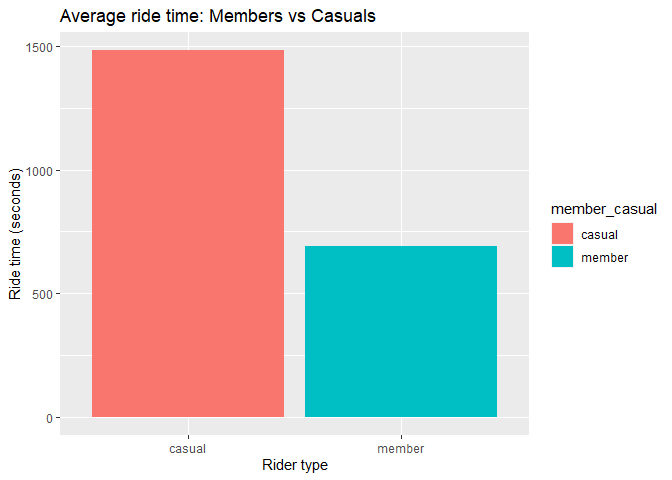
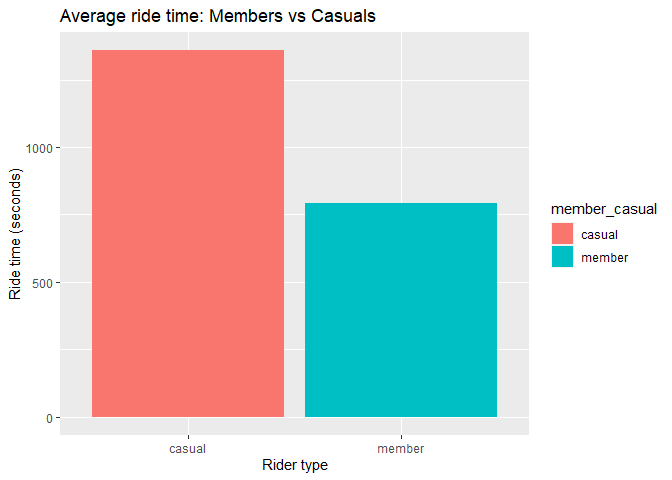
-

diff --git a/google_cap_1.md b/google_cap_1.md
@@ -78,29 +78,7 @@ trip data.
 
 ``` r
 library(tidyverse)
-```
-
-    ## ── Attaching packages ─────────────────────────────────────── tidyverse 1.3.2 ──
-    ## ✔ ggplot2 3.3.6      ✔ purrr   0.3.4 
-    ## ✔ tibble  3.1.8      ✔ dplyr   1.0.10
-    ## ✔ tidyr   1.2.1      ✔ stringr 1.4.1 
-    ## ✔ readr   2.1.2      ✔ forcats 0.5.2 
-    ## ── Conflicts ────────────────────────────────────────── tidyverse_conflicts() ──
-    ## ✖ dplyr::filter() masks stats::filter()
-    ## ✖ dplyr::lag()    masks stats::lag()
-
-``` r
 library(lubridate)
-```
-
-    ## 
-    ## Attaching package: 'lubridate'
-    ## 
-    ## The following objects are masked from 'package:base':
-    ## 
-    ##     date, intersect, setdiff, union
-
-``` r
 library(geosphere)
 library(outliers)
 ```
@@ -108,127 +86,6 @@ library(outliers)
 ``` r
 data_files <- list.files(pattern = "*.csv")
 df_list <- lapply(data_files, read_csv)
-```
-
-    ## Rows: 804352 Columns: 13
-    ## ── Column specification ────────────────────────────────────────────────────────
-    ## Delimiter: ","
-    ## chr  (7): ride_id, rideable_type, start_station_name, start_station_id, end_...
-    ## dbl  (4): start_lat, start_lng, end_lat, end_lng
-    ## dttm (2): started_at, ended_at
-    ## 
-    ## ℹ Use `spec()` to retrieve the full column specification for this data.
-    ## ℹ Specify the column types or set `show_col_types = FALSE` to quiet this message.
-    ## Rows: 756147 Columns: 13
-    ## ── Column specification ────────────────────────────────────────────────────────
-    ## Delimiter: ","
-    ## chr  (7): ride_id, rideable_type, start_station_name, start_station_id, end_...
-    ## dbl  (4): start_lat, start_lng, end_lat, end_lng
-    ## dttm (2): started_at, ended_at
-    ## 
-    ## ℹ Use `spec()` to retrieve the full column specification for this data.
-    ## ℹ Specify the column types or set `show_col_types = FALSE` to quiet this message.
-    ## Rows: 631226 Columns: 13
-    ## ── Column specification ────────────────────────────────────────────────────────
-    ## Delimiter: ","
-    ## chr  (7): ride_id, rideable_type, start_station_name, start_station_id, end_...
-    ## dbl  (4): start_lat, start_lng, end_lat, end_lng
-    ## dttm (2): started_at, ended_at
-    ## 
-    ## ℹ Use `spec()` to retrieve the full column specification for this data.
-    ## ℹ Specify the column types or set `show_col_types = FALSE` to quiet this message.
-    ## Rows: 359978 Columns: 13
-    ## ── Column specification ────────────────────────────────────────────────────────
-    ## Delimiter: ","
-    ## chr  (7): ride_id, rideable_type, start_station_name, start_station_id, end_...
-    ## dbl  (4): start_lat, start_lng, end_lat, end_lng
-    ## dttm (2): started_at, ended_at
-    ## 
-    ## ℹ Use `spec()` to retrieve the full column specification for this data.
-    ## ℹ Specify the column types or set `show_col_types = FALSE` to quiet this message.
-    ## Rows: 247540 Columns: 13
-    ## ── Column specification ────────────────────────────────────────────────────────
-    ## Delimiter: ","
-    ## chr  (7): ride_id, rideable_type, start_station_name, start_station_id, end_...
-    ## dbl  (4): start_lat, start_lng, end_lat, end_lng
-    ## dttm (2): started_at, ended_at
-    ## 
-    ## ℹ Use `spec()` to retrieve the full column specification for this data.
-    ## ℹ Specify the column types or set `show_col_types = FALSE` to quiet this message.
-    ## Rows: 103770 Columns: 13
-    ## ── Column specification ────────────────────────────────────────────────────────
-    ## Delimiter: ","
-    ## chr  (7): ride_id, rideable_type, start_station_name, start_station_id, end_...
-    ## dbl  (4): start_lat, start_lng, end_lat, end_lng
-    ## dttm (2): started_at, ended_at
-    ## 
-    ## ℹ Use `spec()` to retrieve the full column specification for this data.
-    ## ℹ Specify the column types or set `show_col_types = FALSE` to quiet this message.
-    ## Rows: 115609 Columns: 13
-    ## ── Column specification ────────────────────────────────────────────────────────
-    ## Delimiter: ","
-    ## chr  (7): ride_id, rideable_type, start_station_name, start_station_id, end_...
-    ## dbl  (4): start_lat, start_lng, end_lat, end_lng
-    ## dttm (2): started_at, ended_at
-    ## 
-    ## ℹ Use `spec()` to retrieve the full column specification for this data.
-    ## ℹ Specify the column types or set `show_col_types = FALSE` to quiet this message.
-    ## Rows: 284042 Columns: 13
-    ## ── Column specification ────────────────────────────────────────────────────────
-    ## Delimiter: ","
-    ## chr  (7): ride_id, rideable_type, start_station_name, start_station_id, end_...
-    ## dbl  (4): start_lat, start_lng, end_lat, end_lng
-    ## dttm (2): started_at, ended_at
-    ## 
-    ## ℹ Use `spec()` to retrieve the full column specification for this data.
-    ## ℹ Specify the column types or set `show_col_types = FALSE` to quiet this message.
-    ## Rows: 371249 Columns: 13
-    ## ── Column specification ────────────────────────────────────────────────────────
-    ## Delimiter: ","
-    ## chr  (7): ride_id, rideable_type, start_station_name, start_station_id, end_...
-    ## dbl  (4): start_lat, start_lng, end_lat, end_lng
-    ## dttm (2): started_at, ended_at
-    ## 
-    ## ℹ Use `spec()` to retrieve the full column specification for this data.
-    ## ℹ Specify the column types or set `show_col_types = FALSE` to quiet this message.
-    ## Rows: 634858 Columns: 13
-    ## ── Column specification ────────────────────────────────────────────────────────
-    ## Delimiter: ","
-    ## chr  (7): ride_id, rideable_type, start_station_name, start_station_id, end_...
-    ## dbl  (4): start_lat, start_lng, end_lat, end_lng
-    ## dttm (2): started_at, ended_at
-    ## 
-    ## ℹ Use `spec()` to retrieve the full column specification for this data.
-    ## ℹ Specify the column types or set `show_col_types = FALSE` to quiet this message.
-    ## Rows: 769204 Columns: 13
-    ## ── Column specification ────────────────────────────────────────────────────────
-    ## Delimiter: ","
-    ## chr  (7): ride_id, rideable_type, start_station_name, start_station_id, end_...
-    ## dbl  (4): start_lat, start_lng, end_lat, end_lng
-    ## dttm (2): started_at, ended_at
-    ## 
-    ## ℹ Use `spec()` to retrieve the full column specification for this data.
-    ## ℹ Specify the column types or set `show_col_types = FALSE` to quiet this message.
-    ## Rows: 823488 Columns: 13
-    ## ── Column specification ────────────────────────────────────────────────────────
-    ## Delimiter: ","
-    ## chr  (7): ride_id, rideable_type, start_station_name, start_station_id, end_...
-    ## dbl  (4): start_lat, start_lng, end_lat, end_lng
-    ## dttm (2): started_at, ended_at
-    ## 
-    ## ℹ Use `spec()` to retrieve the full column specification for this data.
-    ## ℹ Specify the column types or set `show_col_types = FALSE` to quiet this message.
-    ## Rows: 785932 Columns: 13
-    ## ── Column specification ────────────────────────────────────────────────────────
-    ## Delimiter: ","
-    ## chr  (7): ride_id, rideable_type, start_station_name, start_station_id, end_...
-    ## dbl  (4): start_lat, start_lng, end_lat, end_lng
-    ## dttm (2): started_at, ended_at
-    ## 
-    ## ℹ Use `spec()` to retrieve the full column specification for this data.
-    ## ℹ Specify the column types or set `show_col_types = FALSE` to quiet this message.
-
-``` r
 cyclistic_df <- bind_rows(df_list)
 ```
 
@@ -515,7 +372,7 @@ str(cyclistic_df_new)
 
 I noticed that the minimum ride length is below 0 (-7745) and the
 minimum ride distance is 0. Both values are impossible / does not make
-sense and we’ll be dropping those rows.Stated in the guide script
+sense and we’ll be dropping those rows. Stated in the guide script
 provided to us is that, “*the data frame includes a few hundred entries
 when bikes were taken out of docks and checked for quality by Divvy*”,
 which could explain why some values were as such (below 0).
@@ -541,47 +398,47 @@ summary(sampled_cyclistic)
 ```
 
     ##    ride_id          rideable_type        started_at                    
-    ##  Length:666         Length:666         Min.   :2021-08-02 01:19:04.00  
-    ##  Class :character   Class :character   1st Qu.:2021-10-07 13:28:57.75  
-    ##  Mode  :character   Mode  :character   Median :2022-04-04 15:26:15.00  
-    ##                                        Mean   :2022-02-26 05:21:26.95  
-    ##                                        3rd Qu.:2022-06-26 19:14:38.00  
-    ##                                        Max.   :2022-08-31 21:02:29.00  
+    ##  Length:666         Length:666         Min.   :2021-08-01 15:55:49.00  
+    ##  Class :character   Class :character   1st Qu.:2021-09-25 13:55:33.75  
+    ##  Mode  :character   Mode  :character   Median :2022-03-20 17:46:20.00  
+    ##                                        Mean   :2022-02-17 03:41:20.71  
+    ##                                        3rd Qu.:2022-06-29 09:10:20.75  
+    ##                                        Max.   :2022-08-31 22:43:02.00  
     ##     ended_at                      start_station_name start_station_id  
-    ##  Min.   :2021-08-02 01:29:38.00   Length:666         Length:666        
-    ##  1st Qu.:2021-10-07 13:35:30.50   Class :character   Class :character  
-    ##  Median :2022-04-04 15:38:02.00   Mode  :character   Mode  :character  
-    ##  Mean   :2022-02-26 05:38:25.75                                        
-    ##  3rd Qu.:2022-06-26 19:37:05.75                                        
-    ##  Max.   :2022-08-31 21:23:56.00                                        
+    ##  Min.   :2021-08-01 16:00:41.00   Length:666         Length:666        
+    ##  1st Qu.:2021-09-25 14:04:53.75   Class :character   Class :character  
+    ##  Median :2022-03-20 17:57:32.00   Mode  :character   Mode  :character  
+    ##  Mean   :2022-02-17 03:58:43.50                                        
+    ##  3rd Qu.:2022-06-29 09:21:14.25                                        
+    ##  Max.   :2022-08-31 22:45:56.00                                        
     ##  end_station_name   end_station_id       start_lat       start_lng     
-    ##  Length:666         Length:666         Min.   :41.74   Min.   :-87.76  
+    ##  Length:666         Length:666         Min.   :41.75   Min.   :-87.81  
     ##  Class :character   Class :character   1st Qu.:41.88   1st Qu.:-87.66  
     ##  Mode  :character   Mode  :character   Median :41.90   Median :-87.64  
     ##                                        Mean   :41.90   Mean   :-87.64  
     ##                                        3rd Qu.:41.93   3rd Qu.:-87.63  
-    ##                                        Max.   :42.03   Max.   :-87.58  
+    ##                                        Max.   :42.06   Max.   :-87.56  
     ##     end_lat         end_lng       member_casual      ride_length_seconds
-    ##  Min.   :41.74   Min.   :-87.79   Length:666         Min.   :   18.0    
-    ##  1st Qu.:41.88   1st Qu.:-87.66   Class :character   1st Qu.:  384.5    
-    ##  Median :41.90   Median :-87.64   Mode  :character   Median :  646.0    
-    ##  Mean   :41.90   Mean   :-87.64                      Mean   : 1018.8    
-    ##  3rd Qu.:41.93   3rd Qu.:-87.63                      3rd Qu.: 1103.2    
-    ##  Max.   :42.05   Max.   :-87.58                      Max.   :12094.0    
+    ##  Min.   :41.75   Min.   :-87.77   Length:666         Min.   :   13.0    
+    ##  1st Qu.:41.88   1st Qu.:-87.66   Class :character   1st Qu.:  406.5    
+    ##  Median :41.90   Median :-87.64   Mode  :character   Median :  686.5    
+    ##  Mean   :41.90   Mean   :-87.64                      Mean   : 1042.8    
+    ##  3rd Qu.:41.93   3rd Qu.:-87.63                      3rd Qu.: 1229.8    
+    ##  Max.   :42.06   Max.   :-87.57                      Max.   :18650.0    
     ##  ride_length_mins day_of_week         start_time          end_time        
-    ##  Min.   :  0.30   Length:666         Length:666         Length:666        
-    ##  1st Qu.:  6.40   Class :character   Class :character   Class :character  
-    ##  Median : 10.80   Mode  :character   Mode  :character   Mode  :character  
-    ##  Mean   : 16.98                                                           
-    ##  3rd Qu.: 18.40                                                           
-    ##  Max.   :201.60                                                           
+    ##  Min.   :  0.20   Length:666         Length:666         Length:666        
+    ##  1st Qu.:  6.80   Class :character   Class :character   Class :character  
+    ##  Median : 11.40   Mode  :character   Mode  :character   Mode  :character  
+    ##  Mean   : 17.38                                                           
+    ##  3rd Qu.: 20.48                                                           
+    ##  Max.   :310.80                                                           
     ##  ride_distance      
-    ##  Min.   : 0.003451  
-    ##  1st Qu.: 1.012941  
-    ##  Median : 1.701818  
-    ##  Mean   : 2.153717  
-    ##  3rd Qu.: 2.798180  
-    ##  Max.   :13.034542
+    ##  Min.   : 0.000416  
+    ##  1st Qu.: 1.012843  
+    ##  Median : 1.749463  
+    ##  Mean   : 2.269546  
+    ##  3rd Qu.: 2.832399  
+    ##  Max.   :10.869879
 
 ------------------------------------------------------------------------
 
@@ -636,12 +493,7 @@ daily_rides_member <- sampled_cyclistic %>%
   mutate(day_of_week = wday(started_at, label = TRUE)) %>%
   group_by(member_casual, day_of_week) %>%
   summarise(daily_count = n())
-```
 
-    ## `summarise()` has grouped output by 'member_casual'. You can override using the
-    ## `.groups` argument.
-
-``` r
 daily_rides_member_viz <- ggplot(daily_rides_member, aes(x=day_of_week, y=daily_count, fill=member_casual)) +
   geom_col(position = "dodge") +
   labs(title="Ride count in a week, by rider type", x="Days", y="Ride count")
@@ -677,39 +529,25 @@ total_bike_usage <- sampled_cyclistic %>%
   filter(rideable_type != "docked_bike") %>%
   group_by(member_casual, rideable_type) %>%
   summarise(sum_bike_usage = n())
-```
 
-    ## `summarise()` has grouped output by 'member_casual'. You can override using the
-    ## `.groups` argument.
-
-``` r
 total_bike_usage_viz <- ggplot(total_bike_usage, aes(x=member_casual, y=sum_bike_usage, fill=rideable_type)) +
   geom_col(position = "dodge") +
   scale_y_discrete(limits = c(0, 50, 100, 150, 200, 250)) +
   labs(title="Bike usage between members", x="Rider type", y="Usage Count")
-```
 
-    ## Warning: Continuous limits supplied to discrete scale.
-    ## Did you mean `limits = factor(...)` or `scale_*_continuous()`?
-
-``` r
 total_bike_usage_viz
 ```
 
 ![](google_cap_1_files/figure-gfm/unnamed-chunk-18-1.png)<!-- --> \*\*\*
-\### Average ride time between bikes (grouped by members)
+
+### Average ride time between bikes (grouped by members)
 
 ``` r
 avg_bike_duration <- sampled_cyclistic %>%
   filter(rideable_type != "docked_bike") %>%
   group_by(member_casual, rideable_type) %>%
   summarise(avg_bike_usage = mean(ride_length_seconds))
-```
 
-    ## `summarise()` has grouped output by 'member_casual'. You can override using the
-    ## `.groups` argument.
-
-``` r
 avg_bike_usage_viz <- ggplot(avg_bike_duration, aes(x=member_casual, y=avg_bike_usage, fill=rideable_type)) +
   geom_col(position = "dodge") +
   labs(title="Average ride duration by bikes", x="Rider type", y="Ride time (secs)")
@@ -727,12 +565,7 @@ bike_usage_thru_week <- sampled_cyclistic %>%
   filter(rideable_type != "docked_bike") %>%
   group_by(member_casual, rideable_type, day_of_week) %>%
   summarise(daily_total = n())
-```
 
-    ## `summarise()` has grouped output by 'member_casual', 'rideable_type'. You can
-    ## override using the `.groups` argument.
-
-``` r
 avg_bike_usage_week_viz <- ggplot(bike_usage_thru_week, aes(x=day_of_week, y=daily_total, fill=rideable_type)) +
   geom_col(position = "dodge") +
   facet_grid(~member_casual) +
@@ -805,43 +638,41 @@ ride_length_spread <- ggplot(sampled_cyclistic, aes(x=ride_length_seconds)) +
 ride_length_spread
 ```
 
-    ## `stat_bin()` using `bins = 30`. Pick better value with `binwidth`.
-
 ![](google_cap_1_files/figure-gfm/unnamed-chunk-21-1.png)<!-- -->
 
 ``` r
-# mean (ride length in seconds) = 972.1381 secs
+# mean (ride length in seconds)
 mean(sampled_cyclistic$ride_length_seconds)
 ```
 
-    ## [1] 1018.803
+    ## [1] 1042.799
 
 ``` r
-# mean (ride distance in km) = 2.133668 km
+# mean (ride distance in km)
 mean(sampled_cyclistic$ride_distance)
 ```
 
-    ## [1] 2.153717
+    ## [1] 2.269546
 
 ``` r
-# median (ride length in seconds) = 649 secs
+# median (ride length in seconds)
 median(sampled_cyclistic$ride_length_seconds)
 ```
 
-    ## [1] 646
+    ## [1] 686.5
 
 ``` r
-# median (ride distance in km) = 1.666904 km
+# median (ride distance in km)
 median(sampled_cyclistic$ride_distance)
 ```
 
-    ## [1] 1.701818
+    ## [1] 1.749463
 
 ``` r
-outlier(sampled_cyclistic$ride_length_seconds) # 24226 seconds
+outlier(sampled_cyclistic$ride_length_seconds)
 ```
 
-    ## [1] 12094
+    ## [1] 18650
 
 ------------------------------------------------------------------------
 
@@ -859,16 +690,16 @@ ride_length_spread <- ggplot(sampled_cyclistic, aes(x=log(ride_length_seconds)))
 ride_length_spread
 ```
 
-    ## `stat_bin()` using `bins = 30`. Pick better value with `binwidth`.
-
 ![](google_cap_1_files/figure-gfm/unnamed-chunk-23-1.png)<!-- --> \*\*\*
 
 … and the distribution looks better than the previous one. However, I
-did not know how to move on after this step because I was not sure what
-to do with this step. I intended to to a one-sample-t-test to check if
-the sample mean was representative of the population but I got stuck
-here (was I actually supposed to use this distribution for the
-one-sample-t-test?)
+was not sure what to do with this step. I intended to to a
+one-sample-t-test to check if the sample mean was representative of the
+population but I got stuck here (was I actually supposed to use this
+distribution for the one-sample-t-test?)
+
+-   I will update this case study with a dashboard with Tableau,
+    featuring a viz of popular routes by rider types!
 
 -   I will definitely be adding on to this case study every now and then
     as I learn more about statistics!
